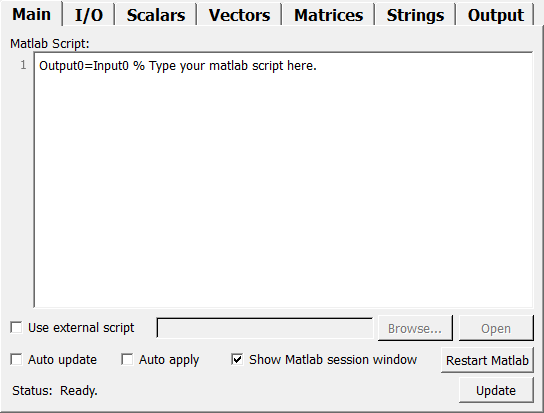
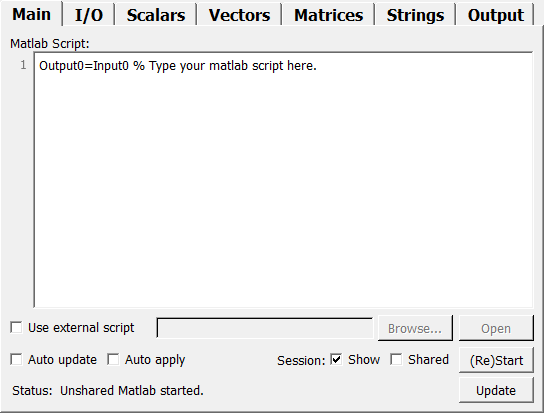
- Added option for shared or single Matlab sessions - Changed some field names - Updated parts of the documentation and added using shared sessions

Changed region(s): [[0.4062, 0.8426, 0.9688, 0.9007], [0.1875, 0.8426, 0.375, 0.9007], [0.0938, 0.9298, 0.375, 0.9588]]

diff --git a/Community/General/Modules/ML/MLMatlabScriptWrapper/html/MatlabScriptWrapper.html b/Community/General/Modules/ML/MLMatlabScriptWrapper/html/MatlabScriptWrapper.html
@@ -28,9 +28,10 @@
 
 <blockquote style="margin-top: 5pt; margin-bottom: 5pt;">
 The <b>MatlabScriptWrapper</b> module offers the possibility to execute
-<a href="http://www.mathworks.com/products/matlab/">Matlab</a> scripts within MeVisLab and establish a link to a
-Matlab console, for example to transfer data between MeVisLab and Matlab. Note that Matlab must be
-installed for this module to function.
+<a href="http://www.mathworks.com/products/matlab/">Matlab</a> scripts within <a href="http://www.mevislab.de">MeVisLab</a>
+and establish a link to a <a href="href="http://mathworks.com/help/matlab/matlab_external/introducing-matlab-engine.html">
+Matlab engine</a>, for example to transfer data between MeVisLab and Matlab.
+Note that Matlab must be installed for this module to function.
 </blockquote>
 
 
@@ -83,23 +84,20 @@ Currently, three types of data structures can be transferred between MeVisLab an
     an example.
     </li>
     <li><span style="font-weight: bold;">Scalars:&nbsp;</span>
-    Double precision. These can be used both as input and ouput variables.
-    Field notifications will be sent in MeVisLab only if a scalar has changed its
-    value after the Matlab script execution.
+    Double precision. These can be used both as input and ouput variables. Field notifications will be sent
+    in MeVisLab only if a scalar has changed its value after the Matlab script execution.
     </li>
     <li><span style="font-weight: bold;">Vectors:&nbsp;</span>
-    Double precision 4-D integer point. These can be used both as input and ouput
-    variables. Field notifications will be sent in MeVisLab only if a
-    vector has changed its value after the Matlab script execution.
+    Double precision 4-D integer point. These can be used both as input and ouput variables. Field notifications
+    will be sent in MeVisLab only if a vector has changed its value after the Matlab script execution.
     </li>
     <li><span style="font-weight: bold;">Matrices:&nbsp;</span>
-    Double precision 4x4 integer matrix. These can be used both as input and ouput
-    variables. Field notifications will be sent in MeVisLab only if a
-    matrix has changed its value after the Matlab script execution.
+    Double precision 4x4 integer matrix. These can be used both as input and ouput variables. Field notifications
+    will be sent in MeVisLab only if a matrix has changed its value after the Matlab script execution.
     </li>
     <li><span style="font-weight: bold;">Strings:&nbsp;</span>
-    These can be used both as input and ouput variables. Field notifications will be
-    sent in MeVisLab only if a string has changed its value after the Matlab script execution.
+    These can be used both as input and ouput variables. Field notifications will be sent in MeVisLab only if a
+    string has changed its value after the Matlab script execution.
     </li>
 </ul>
 
@@ -107,7 +105,7 @@ The variable names for the above data structures in the Matlab workspace can be 
 <br>
 The Matlab script can be written directly in the module GUI, or an external script file (.m) can be called.
 If you choose to use an existing script, the script in script field will disappear and there is no
-posibility to edit a Matlab script file from MeVisLab.
+possibility to edit a Matlab script file from MeVisLab.
 <br>
 Push the "Update"-button to execute the Matlab script, set "Auto update" to update on input value change,
 or set "Auto apply" to update on parameter value change.
@@ -166,7 +164,6 @@ Up to three output images and one CurveList, one XMarkerList, or one WEM.
 A field where the Matlab script can be written.<br>
 </blockquote>
 
-
 <blockquote style="margin-top: 5pt; margin-bottom: 5pt;">
 <b>Use External Script</b>
 <br>
@@ -183,17 +180,20 @@ XMarkerList, and WEM, not for changes in the names).<br>
 <blockquote style="margin-top: 5pt; margin-bottom: 5pt;">
 <b>Auto apply</b>
 <br>
-Execute the script automatically on parameter change (only for fields,
-not for changes in the names).<br>
+Execute the script automatically on parameter change (only for fields, not for changes in the names).<br>
 </blockquote>
 
+<blockquote style="margin-top: 5pt; margin-bottom: 5pt;">
+<b>Shared use</b>
+<br>
+Share the Matlab session among multiple modules. Becomes active after a restart of the session.<br>
+</blockquote>
 
 <blockquote style="margin-top: 5pt; margin-bottom: 5pt;">
 <b>Restart Matlab</b>
 <br>
-Restarts the Matlab engine.<br>
+Starts the Matlab session engine and restarts if "Show" is hidden.<br>
 </blockquote>
-
 
 <blockquote style="margin-top: 5pt; margin-bottom: 5pt;">
 <b>Status</b>
@@ -201,13 +201,11 @@ Restarts the Matlab engine.<br>
 This field gives information whether the Matlab script was executed correctly or not.<br>
 </blockquote>
 
-
 <blockquote style="margin-top: 5pt; margin-bottom: 5pt;">
 <b>Show Matlab session window</b>
 <br>
 Show or hide the Matlab session window.<br>
 </blockquote>
-
 
 <blockquote style="margin-top: 5pt; margin-bottom: 5pt;">
 <b>Update</b>
@@ -215,13 +213,11 @@ Show or hide the Matlab session window.<br>
 Execute the Matlab script.<br>
 </blockquote>
 
-
 <blockquote style="margin-top: 5pt; margin-bottom: 5pt;">
 <b>Matlab Output</b>
 <br>
 Displays the output of executed Matlab script.<br>
 </blockquote>
-
 
 <br>
 <blockquote style="margin-top: 5pt; margin-bottom: 5pt;">
